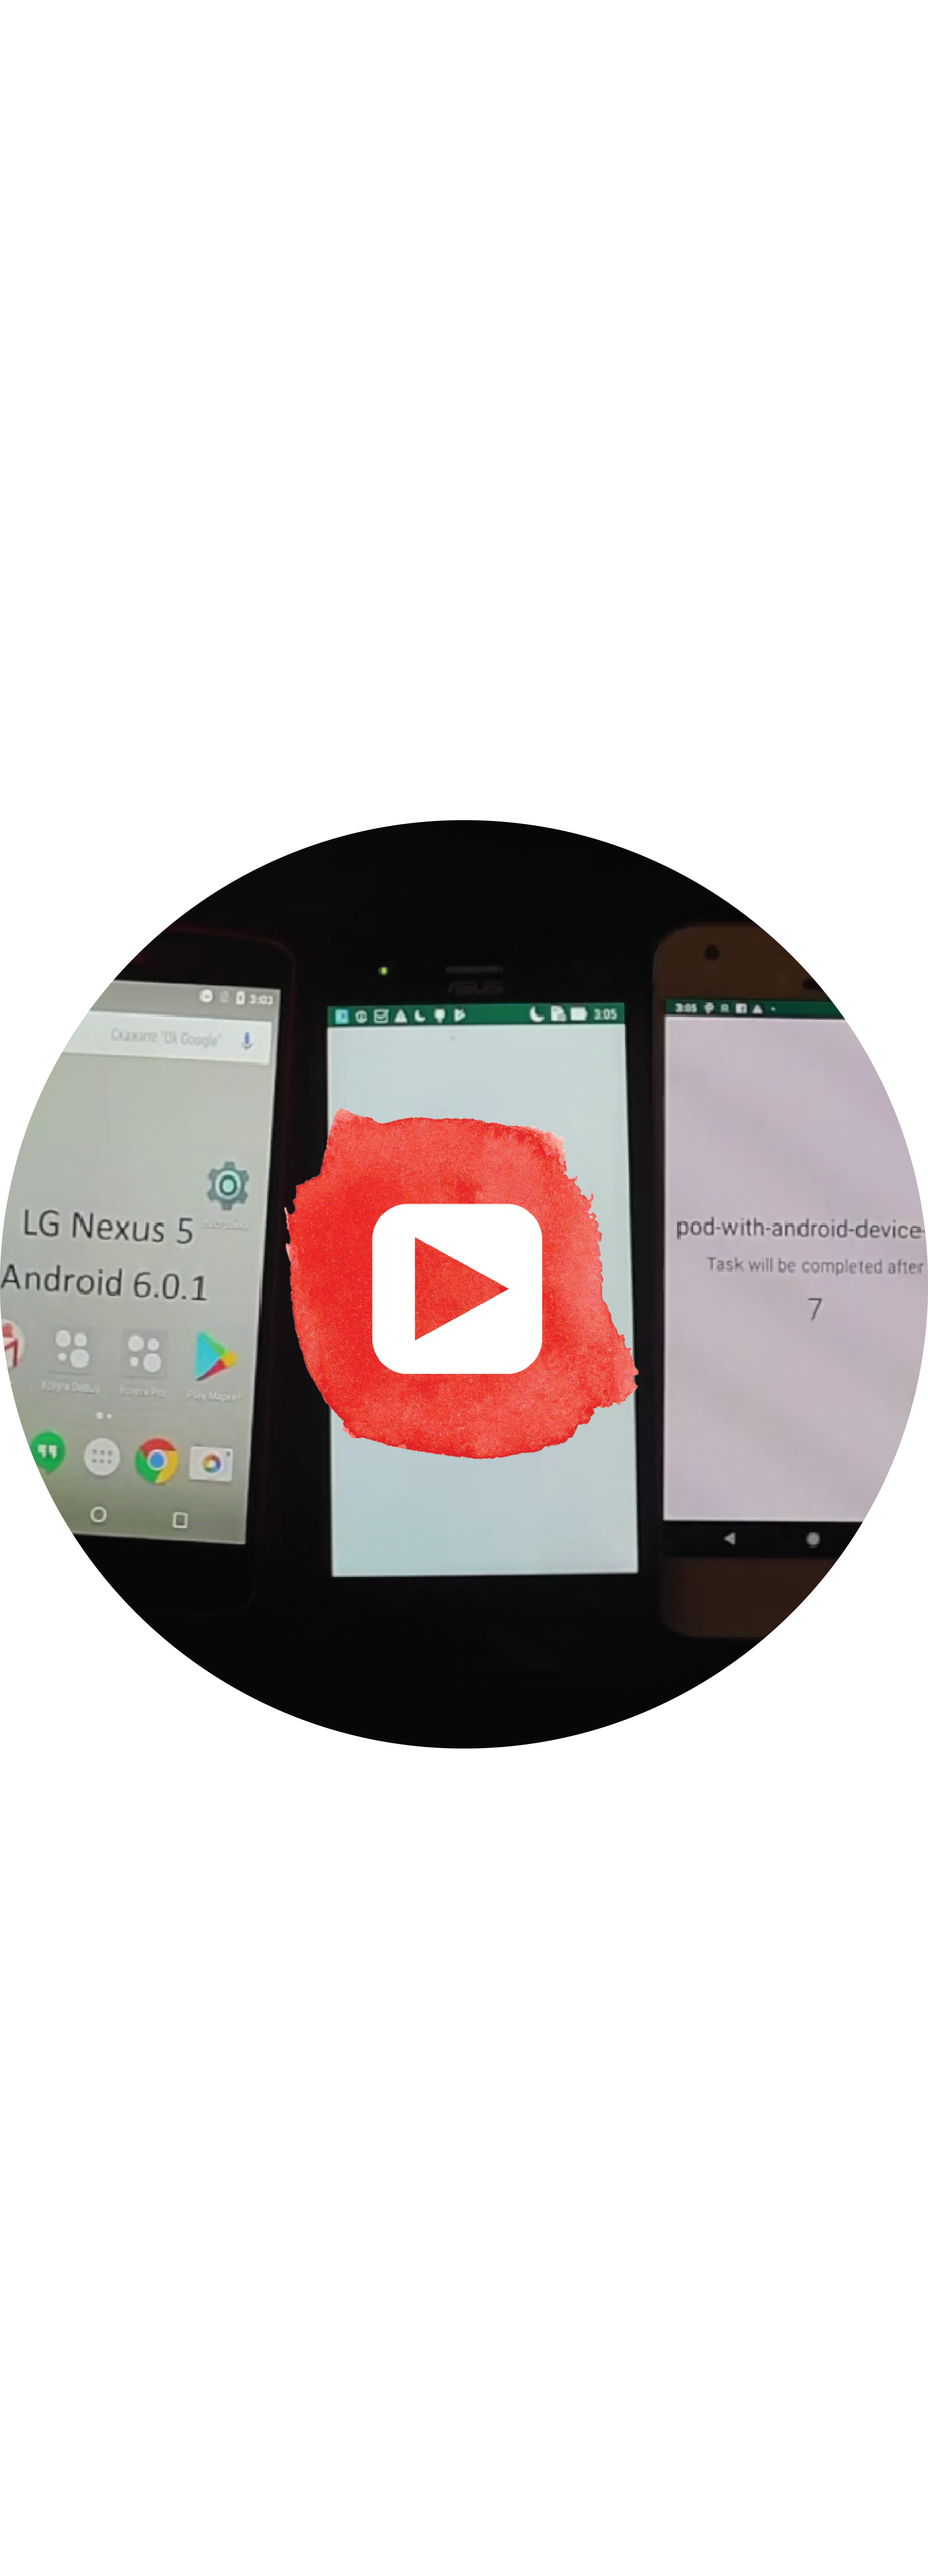
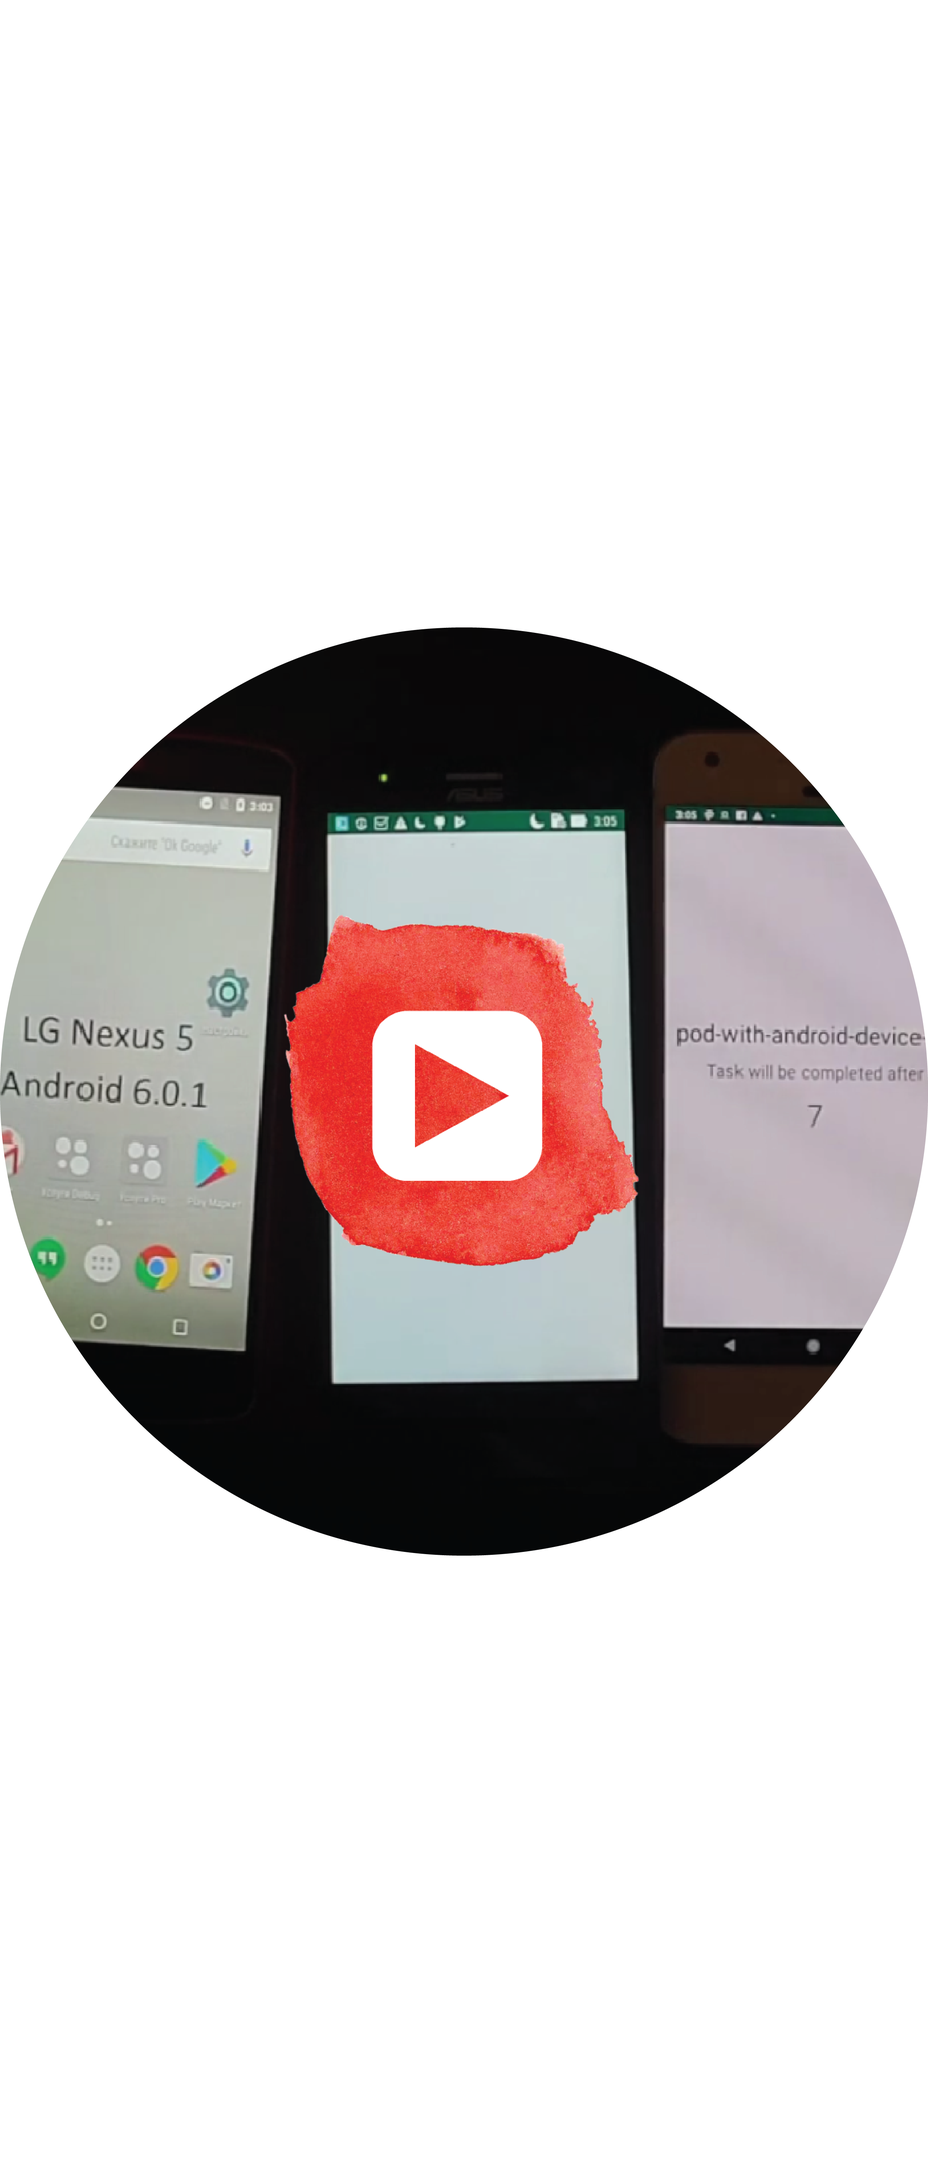
image add link to youtube

Changed region(s): [[0.0, 0.2799, 1.0, 0.7154], [0.0, 0.4355, 0.0309, 0.4666]]

diff --git a/README.md b/README.md
@@ -1,3 +1,5 @@
 <div align="center">
-	<img height="350px" src="https://raw.githubusercontent.com/dimorinny/android-devices-kubernetes-plugin/master/art/video.png">
+    <a href="https://www.youtube.com/watch?v=lR6YuPlk2lE">
+	    <img height="350px" src="https://raw.githubusercontent.com/dimorinny/android-devices-kubernetes-plugin/master/art/video.png">
+    </a>
 </div>
